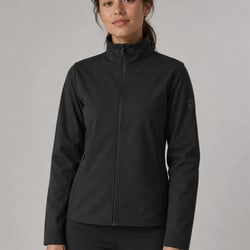
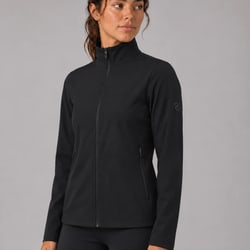
Women's Jacket: four new studio photos
Cover = three-quarter view (jacket-w.jpg), then front, side, back.
front-angle and back-angle shots removed. Shop All hover = front.
Share image rebuilt. Previous files in Archives/image-originals-2026-11-11/jacket-w/.

diff --git a/product.html b/product.html
@@ -374,7 +374,7 @@ const PRODUCTS={
   'flared-leggings-w':{name:'Flared Leggings',gender:"Women's",price:'KES 5,600',priceVal:5600,image:'images/flared-leggings-w.jpg',images:['images/flared-leggings-w.jpg','images/flared-leggings-w-back.jpg'],sizes:['S','M','L','XL','XXL'],tallSizes:['S (Tall)','M (Tall)','L (Tall)','XL (Tall)','XXL (Tall)'],desc:"Studio-ready with a relaxed straight-leg silhouette — loose from the waistband down through the leg. A high-rise contoured waistband defines the waistline and stays put through full range of motion. A pattern-cut panel lifts the silhouette at the top of the glute, while graduated compression holds the line without flattening shape. Buttery-soft four-way stretch fabric. Suited to yoga, pilates, barre and everyday wear. Also available in Tall lengths.",details:['High-rise contoured waistband — defines without compressing','Pattern-cut lift at the top of the glute','Graduated compression through thigh and core','Buttery-soft four-way stretch fabric','No front seam','Relaxed straight-leg cut — loose from the waistband through the leg','Regular (34" inseam) — up to 5\'8" / 173cm · Tall (37" inseam) — 5\'9" / 175cm and above','Fabric: 75% Polyamide, 25% Elastane']},
   'high-impact-bra':{name:'High Impact Sports Bra',gender:"Women's",price:'KES 4,950',priceVal:4950,image:'images/high-impact-bra-side.jpg',images:['images/high-impact-bra-side.jpg','images/high-impact-bra-back.jpg','images/high-impact-bra-front.jpg','images/high-impact-bra-closeup.jpg','images/high-impact-bra-three-quarter.jpg','images/high-impact-bra-back-three-quarter.jpg','images/high-impact-bra-full-front.jpg','images/high-impact-bra-full-back.jpg'],sizes:['S','M','L','XL','XXL'],desc:"Maximum support for running, HIIT, and high-intensity training. Wide underband and reinforced straps keep everything locked in place. Moisture-wicking inner lining and built-in moulded padding.",details:['Maximum support rating','Wide reinforced underband','Adjustable underband strap','Crossover back straps','Built-in moulded padding','Moisture-wicking inner lining','Fabric: Body Fabric: 75% Polyamide, 25% Elastane / Inner Fabric: 90% Polyester, 10% Elastane Jacquard Tricot / Mesh: 88% Polyamide, 12% Elastane Mesh']},
   'low-impact-bra':{name:'Low Impact Sports Bra',gender:"Women's",price:'KES 4,450',priceVal:4450,image:'images/low-impact-bra.jpg',images:['images/low-impact-bra.jpg','images/low-impact-bra-back.jpg','images/low-impact-bra-side.jpg','images/low-impact-bra-front.jpg'],sizes:['S','M','L','XL','XXL'],desc:"Lightweight and breathable for yoga, pilates, stretching, and low-intensity sessions. Scoop neck with a clean racerback silhouette. Removable padding, soft-touch fabric.",details:['Light support rating','Racerback silhouette','Scoop neckline','Removable padding','Soft-touch four-way stretch fabric','Fabric: Body Fabric: 82% Polyamide, 18% Elastane / Mesh: 88% Polyamide, 12% Elastane Mesh']},
-  'jacket-w':{name:"Women's Jacket",gender:"Women's",price:'KES 7,200',priceVal:7200,image:'images/jacket-w.jpg',images:['images/jacket-w.jpg','images/jacket-w-front-angle.jpg','images/jacket-w-back-angle.jpg','images/jacket-w-back.jpg'],sizes:['S','M','L','XL','XXL'],desc:"A versatile training jacket built for warm-ups, cool-downs, and everything in between. Two side pockets and a straight fit.",details:['Full-length zip front','Two side zip pockets','Straight fit','Fabric: 100% Polyester']},
+  'jacket-w':{name:"Women's Jacket",gender:"Women's",price:'KES 7,200',priceVal:7200,image:'images/jacket-w.jpg',images:['images/jacket-w.jpg','images/jacket-w-front.jpg','images/jacket-w-side.jpg','images/jacket-w-back.jpg'],sizes:['S','M','L','XL','XXL'],desc:"A versatile training jacket built for warm-ups, cool-downs, and everything in between. Two side pockets and a straight fit.",details:['Full-length zip front','Two side zip pockets','Straight fit','Fabric: 100% Polyester']},
   'tshirt-w':{name:"Women's T-Shirt",gender:"Women's",price:'KES 4,200',priceVal:4200,image:'images/tshirt-w-front-angle.jpg',images:['images/tshirt-w-front-angle.jpg','images/tshirt-w-front.jpg','images/tshirt-w-back.jpg','images/tshirt-w-detail.jpg','images/tshirt-w-movement.jpg'],sizes:['S','M','L','XL','XXL'],desc:"A clean training tee built for movement. Lightweight moisture-wicking fabric, a relaxed fit that stays in place, and a full-length hem. Wear it to the gym, on a run, or straight after.",details:['Moisture-wicking fabric','Relaxed fit, full length','Crew neck','Flatlock shoulder seams','Fabric: 89% Polyester, 11% Elastane']},
   'tshirt-m':{name:"Men's T-Shirt",gender:"Men's",price:'KES 4,200',priceVal:4200,image:'images/tshirt-m.jpg',images:['images/tshirt-m.jpg','images/tshirt-m-side.jpg','images/tshirt-m-back.jpg'],sizes:['S','M','L','XL','XXL'],desc:"A training tee that does its job without getting in the way. Sweat-wicking fabric, a clean regular fit, and a slightly dropped hem. Equally at home in the gym or on the way there.",details:['Moisture-wicking fabric','Regular fit with dropped hem','Crew neck','Flatlock shoulder seams','Fabric: 89% Polyester, 11% Elastane']},
   'quarter-zip-m':{name:"Men's Quarter Zip",gender:"Men's",price:'KES 5,600',priceVal:5600,image:'images/quarter-zip-m.jpg',images:['images/quarter-zip-m.jpg','images/quarter-zip-m-front.jpg','images/quarter-zip-m-side.jpg','images/quarter-zip-m-seated.jpg'],sizes:['S','M','L','XL','XXL'],desc:"The warm-up layer you'll reach for every session. Quarter-zip collar, flatlock seams, and a clean minimal aesthetic. Lightweight enough to keep on during training.",details:['Quarter-zip collar','Flatlock seam construction','Regular straight fit','Moisture-wicking fabric','Fabric: 83% Polyester, 17% Elastane']},

diff --git a/collections.html b/collections.html
@@ -255,7 +255,7 @@
       <div class="prod-card fu d3" data-gender="women" data-cat="jackets">
         <div class="relative" style="aspect-ratio:3/4;overflow:hidden;background:#f3f4f6;">
           <img loading="lazy" decoding="async" src="images/jacket-w.jpg" alt="Women's Jacket" style="width:100%;height:100%;object-fit:cover;object-position:center;display:block;">
-          <img src="images/jacket-w-front-angle.jpg" alt="" aria-hidden="true" class="card-hover-img" loading="lazy" decoding="async">
+          <img src="images/jacket-w-front.jpg" alt="" aria-hidden="true" class="card-hover-img" loading="lazy" decoding="async">
           <button class="add-btn" onclick="addToBag('jacket-w','Women\'s Jacket',7200)">Add to Bag</button>
         </div>
         <div class="p-4">
